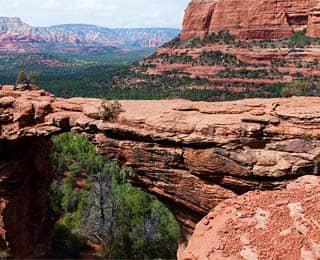
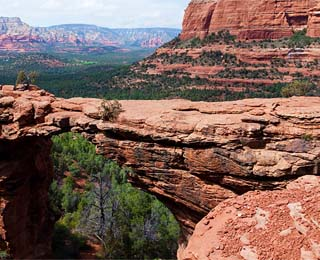
Made optimization of pictures for index.html

diff --git a/src/index.html b/src/index.html
@@ -38,8 +38,13 @@
         </ul>
       </div>
       <div class="header__logo logo">
-        <a href="#" class="logo__link"><img class="logo__img" src="img/logo.svg" alt="логотип Sedona" width="102"
-          height="83"></a>
+        <a href="#" class="logo__link">
+          <picture>
+            <source media="(min-width:1200px )" srcset="img/logo-desktop.svg">
+            <img class="logo__img" src="img/logo.svg" alt="логотип Sedona" 
+          </picture>
+          
+        </a>
       </div>
       <div class="header__background background">
 
@@ -58,7 +63,16 @@
               <span class="advantages__number">-№1-</span>
               <p class="advantages__text">Седона не аттракцион для туристов, там течет своя жизнь</p>
             </div>
-            <img class="advantages__img" src="img/photo-city.jpg" alt="Настоящий городок">
+            <picture>
+              <source media="(min-width:1200px )" srcset="img/photo-city-desktop@2x.webp 2x, img/photo-city-desktop.webp 1x" type="image/webp">
+              <source media="(min-width:768px )" srcset="img/photo-city-tablet@2x.webp 2x, img/photo-city-tablet.webp 1x" type="image/webp">
+              <source srcset="img/photo-city@2x.webp 2x, img/photo-city.webp 1x" type="image/webp">
+
+              <source media="(min-width: 1200px)" srcset="img/photo-city-desktop@2x.jpg 2x, img/photo-city-desktop.jpg">
+              <source media="(min-width: 768px)" srcset="img/photo-city-tablet@2x.jpg 2x, img/photo-city-tablet.jpg 1x">
+              <img class="advantages__img" src="img/photo-city.jpg" srcset="img/photo-city@2x.jpg 2x" alt="Настоящий городок">
+            </picture>
+           
           </li>
           <li class="advantages__item advantages__item--wide">
             <div class="advantages__inner advantages__inner--wide">
@@ -66,7 +80,16 @@
               <span class="advantages__number">-№2-</span>
               <p class="advantages__text">Да, по нему можно пройти! Если вы осмелитесь, конечно</p>
             </div>
-            <img class="advantages__img" src="img/photo-bridge.jpg" alt="Мост Дьявола">
+            <picture>
+              <source media="(min-width: 1200px)" srcset="img/photo-bridge-desktop@2x.webp 2x, img/photo-bridge-desktop.webp 1x" type="image/webp">
+              <source media="(min-width: 768px)" srcset="img/photo-bridge-tablet@2x.webp 2x, img/photo-bridge-tablet.webp 1x" type="image/webp">
+              <source srcset="img/photo-bridge@2x.webp 2x, img/photo-bridge.webp 1x" type="image/webp">
+
+              <source media="(min-width: 1200px)" srcset="img/photo-bridge-desktop@2x.jpg 2x, img/photo-bridge-desktop.jpg 1x">
+              <source media="(min-width: 768px)" srcset="img/photo-bridge-tablet@2x.jpg 2x, img/photo-bridge-tablet.jpg 1x">
+              <img class="advantages__img" src="img/photo-bridge.jpg 1x" srcset="img/photo@2x.jpg 2x" alt="Мост Дьявола">
+            </picture>
+            
           </li>
           <li class="advantages__item">
             <div class="advantages__inner">
@@ -116,7 +139,16 @@
         <p class="search-motel__text">Укажите предпологаемые даты поездки, <br> и мы покажем вам лучшие предложения гостиниц в Седоне</p>
         <a class="search-motel__button button" href="#">Найти гостинницу</a>
         <div class="search-motel__wrap">
-          <img class="search-motel__img" src="img/map.jpg" alt="карта Седоны">
+          <picture>
+            <source media="(min-width: 1200px)" srcset="img/map-desktop@2x.webp 2x, img/map-desktop.webp 1x" type="image/webp">
+            <source media="(min-width: 768px)" srcset="img/map-tablet@2x.webp 2x, img/map-tablet.webp 1x" type="image/webp">
+            <source srcset="img/map-mobile@2x.webp 2x, img/map-mobile.webp 1x" type="image/webp">
+
+            <source media="(min-width: 1200px)" srcset="img/map-desktop@2x.jpg 2x, img/map-desktop.jpg 1x">
+            <source media="(min-width: 768px)" srcset="img/map-tablet@2x.jpg 2x, img/map-tablet.jpg 1x">
+            <img class="search-motel__img" src="img/map-mobile.jpg 1x" srcset="img/map-mobile@2x.jpg 2x" alt="карта Седоны">
+          </picture>
+         
         </div>
       </section>
     </main>

diff --git a/src/less/blocks/advantages.less b/src/less/blocks/advantages.less
@@ -155,11 +155,11 @@
     border: none;
     box-sizing: border-box;
     &--wide {
-      width: 35%;
+      flex-grow: 1;
     }
   }
   .advantages__img {
-    width: 65%;
+    width: 512px;
     margin: 0;
 
     object-fit: cover;
@@ -184,5 +184,8 @@
   .advantages__text {
     width: 280px;
     margin-top: 30px;
+  }
+  .advantages__img {
+    width: 800px;
   }
 }

diff --git a/src/less/blocks/main.less b/src/less/blocks/main.less
@@ -28,3 +28,10 @@
     }
   }
 }
+  @media(min-width: @desktop){
+    .main__title {
+      &--index {
+        background-image: url(../img/fon.svg), url(../img/sedona.svg), url(../img/back-desktop.jpg);
+      }
+    }
+  }

diff --git a/src/less/blocks/logo.less b/src/less/blocks/logo.less
@@ -2,3 +2,9 @@
   width: 102px;
   height: 83px;
 }
+@media(min-width: @desktop){
+  .logo__img {
+    width: 188px;
+    height: 96px;
+  }
+}
